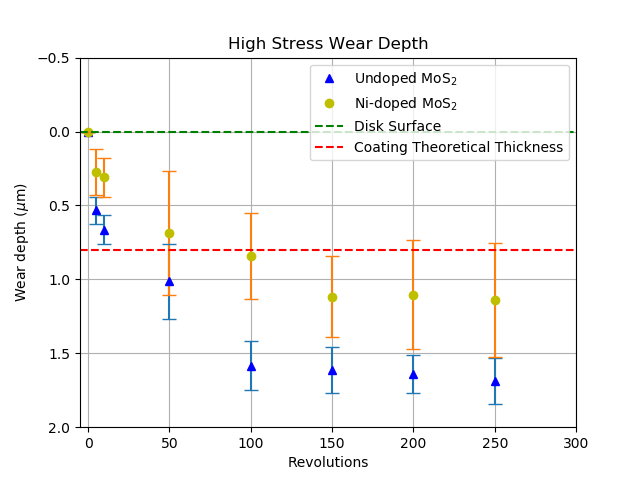
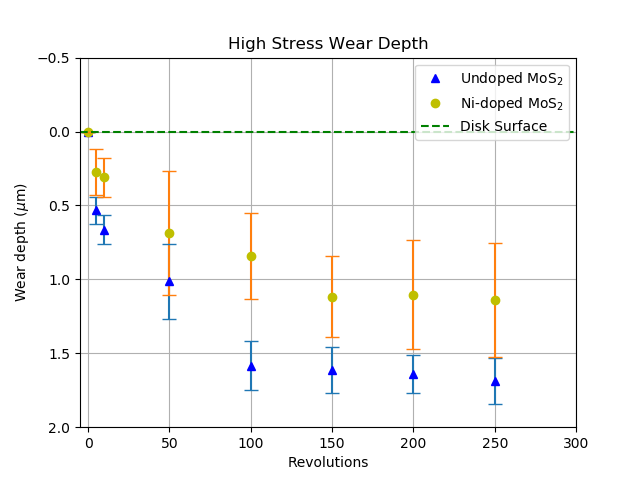
NEw info

diff --git a/Data_Frame.py b/Data_Frame.py
@@ -1,37 +1,36 @@
-import pandas as pd
+'''import pandas as pd
 import glob, os
 
-pd.set_option('display.max_colwidth', -1)
+for filename in glob.glob('RT_plots/*.csv'):
+    data = pd.read_csv(filename, index_col='P')
+
+print(filename)
+'''
+
+import os, glob
+import pandas as pd
+os.chdir("F:/Short_Test/UD_HS_AM_RT/2/UD_HS_AM_RT_18mm/raw_data")
+
+extension = 'csv'
+all_filenames = [i for i in glob.glob('*{}'.format(extension))]
+
+li = []
+
+for filename in all_filenames:
+    df = pd.read_csv(filename, index_col=None, header=2)
+    li.append(df)
+
+print(li)
+df.to_csv('UD_HS_AM_RT_18mm.csv', index=False, encoding='utf-8-sig')
+
+frame = pd.concat(li, axis=0, ignore_index=True)
 
 '''
-# Rename multiple CSV files in a folder
-def rename(dir, pathAndFilename, pattern, titlePattern):
-    os.rename(pathAndFilename, os.path.join(dir, titlePattern))
+# Combine all files in the list
+combined_csv = pd.concat([pd.read_csv(f) for f in all_filenames])
 
-path = os.path.expanduser('~//*csv')
-
-for i, fname in enumerate(glob.glob(path)):
-    rename(os.path.expanduser('`//*.csv'), fname = r'*.csv',r'test{}.csv'.format(i))
+# Export to csv
+combined_csv.to_csv('UD_HS_AM_RT_18mm.csv', index = False, encoding = 'utf-8-sig')
 '''
-# Load several
-result = pd.DataFrame()
 
-path = os.path.expanduser("/C:/Users/romer/PycharmProjects/RT_plots/ND_HS_AM_RT_14mm_*.csv")
 
-for fname in glob.glob(path):
-    head, tail = os.path.split(fname)
-    df = pd.read_csv(fname, sep=";")
-    df2 = df.sort_values(by=['Profile 1'], ascending=False).drop(['Fit', 'Fit'], axis=1).iloc[15:20,:]
-    df2['y'] = tail
-    result = pd.concat([result, df2])
-#result.sort_values(by=['COF']).iloc[0:10,]
-
-print(result)
-
-'''
-stock_files = sorted(glob('RT_plots/ND_*_AM_RT_14mm_*.csv'))
-print(stock_files)
-
-pd.concat((pd.read_csv(file).assign(filename = file)
-          for file in stock_files), ignore_index = True)
-'''

diff --git a/wear_depth_plot.py b/wear_depth_plot.py
@@ -48,7 +48,7 @@ ax.plot(revolutions, ND_mean, 'yo',
 ax.errorbar(revolutions, ND_mean, yerr=ND_std, linestyle='None', capsize=5)
 
 ax.axhline(y=0.0, linestyle='--', color="green", label='Disk Surface')
-ax.axhline(y=0.8, linestyle='--', color="red", label='Coating Theoretical Thickness')
+#ax.axhline(y=0.8, linestyle='--', color="red", label='Coating Theoretical Thickness')
 
 
 ax.set(xlabel='Revolutions', ylabel="Wear depth ($\mu$m)",
